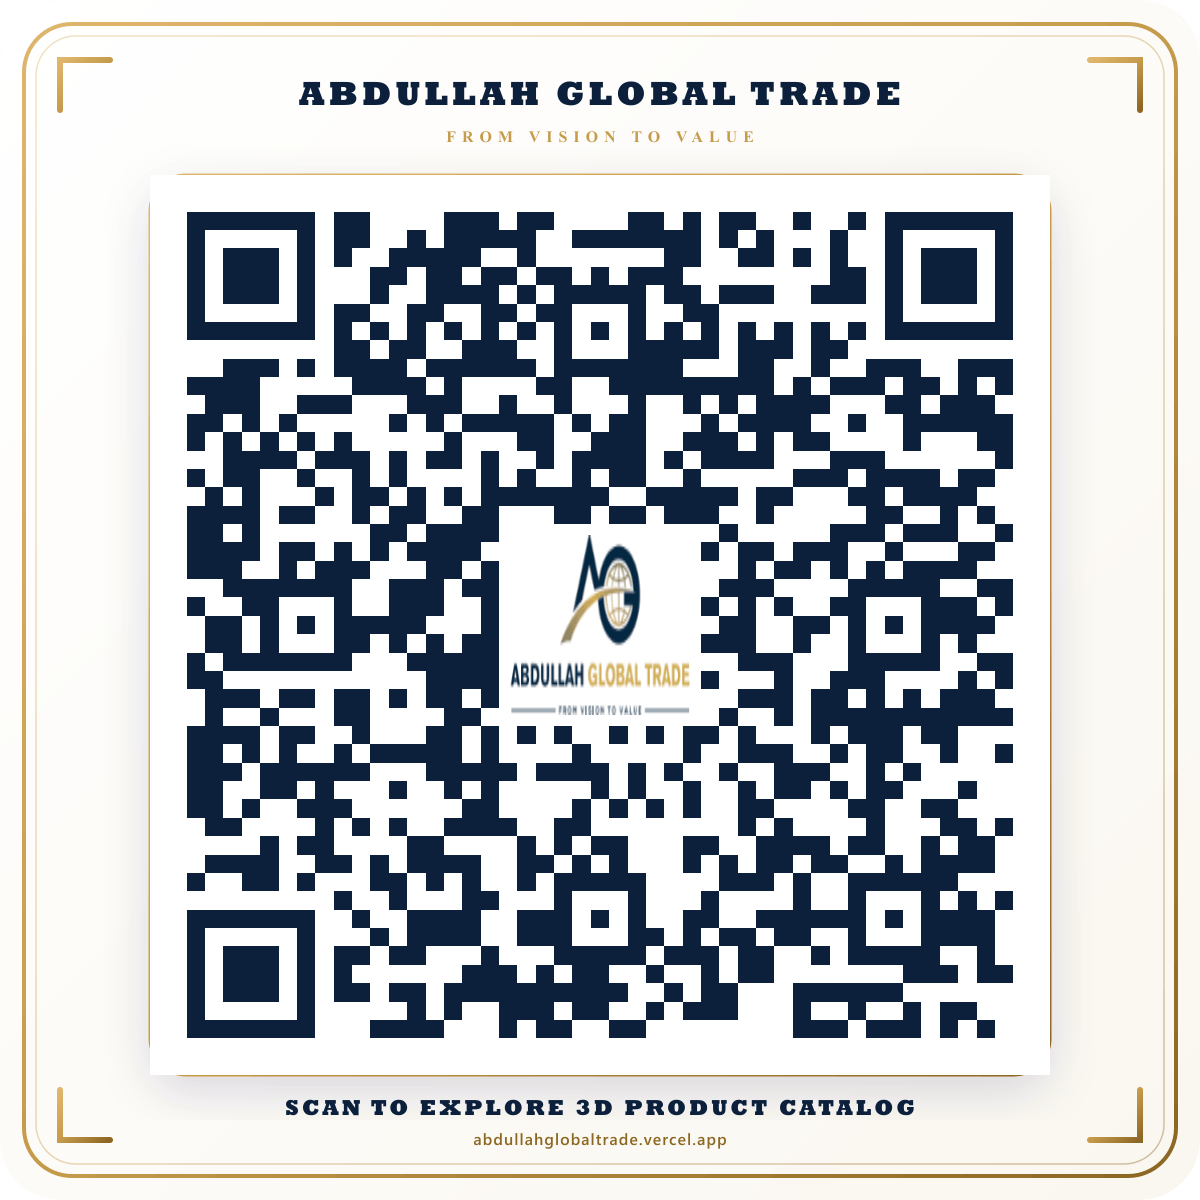
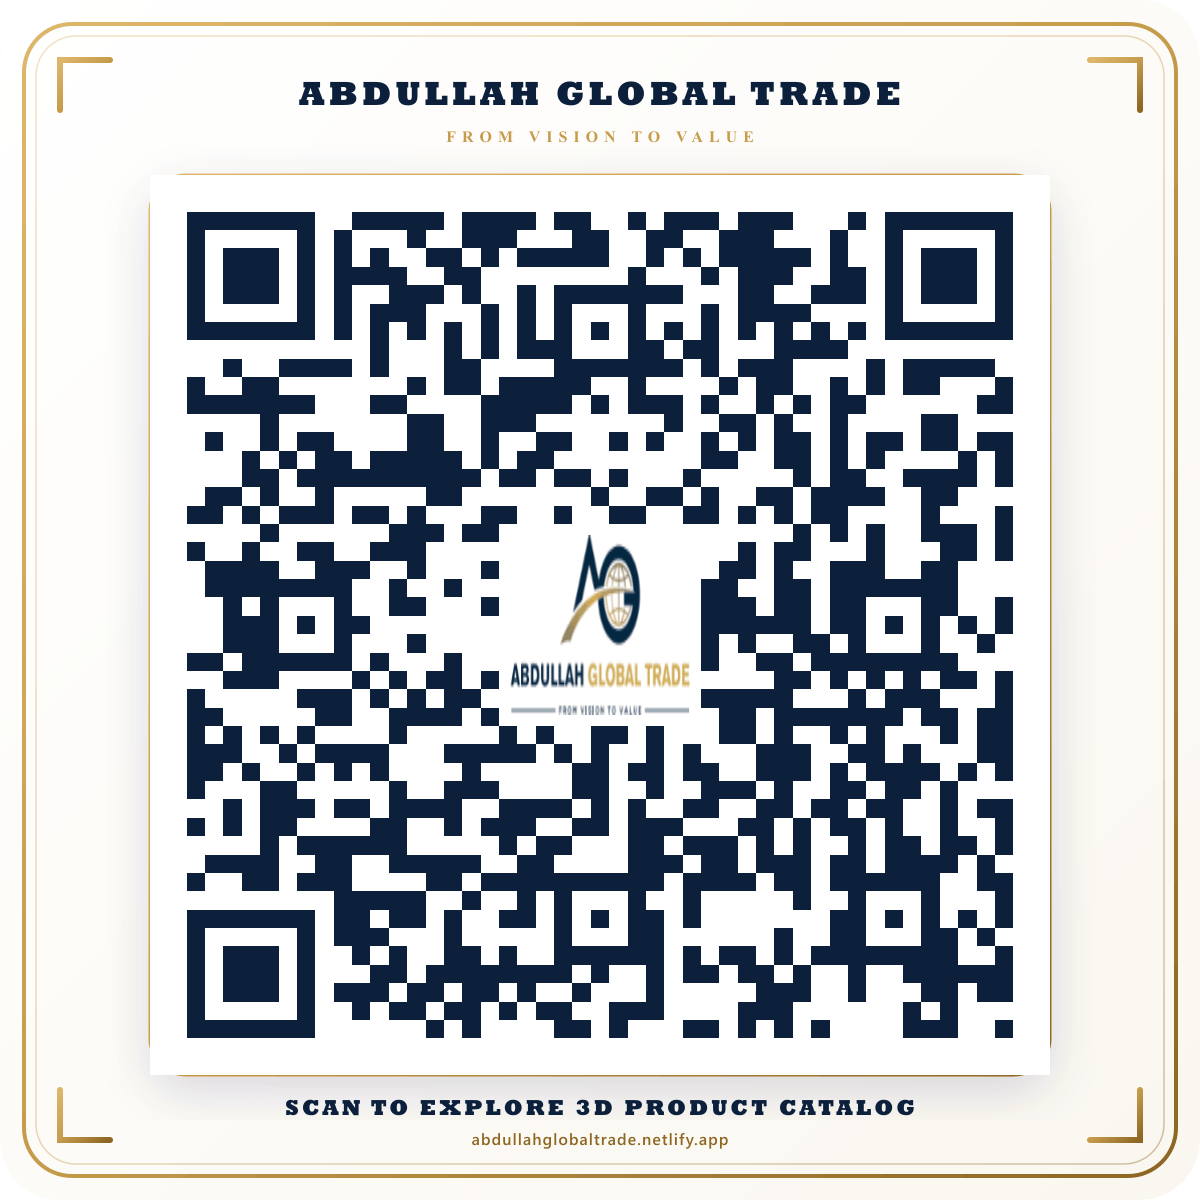
Update QR codes to link to unblocked Netlify URL

Changed region(s): [[0.1542, 0.1542, 0.8633, 0.8633], [0.4008, 0.925, 0.6167, 0.9558]]

diff --git a/execution/generate_qr_assets.js b/execution/generate_qr_assets.js
@@ -5,8 +5,8 @@ import sharp from 'sharp';
 import fs from 'fs/promises';
 import path from 'path';
 
-const TARGET_URL = 'https://abdullahglobaltrade.vercel.app/api/track-scan?ref=qr';
-const DISPLAY_URL = 'abdullahglobaltrade.vercel.app';
+const TARGET_URL = 'https://abdullahglobaltrade.netlify.app/api/track-scan?ref=qr';
+const DISPLAY_URL = 'abdullahglobaltrade.netlify.app';
 
 async function generateQRCodes() {
   console.log('Generating luxury QR Code assets for:', TARGET_URL);
